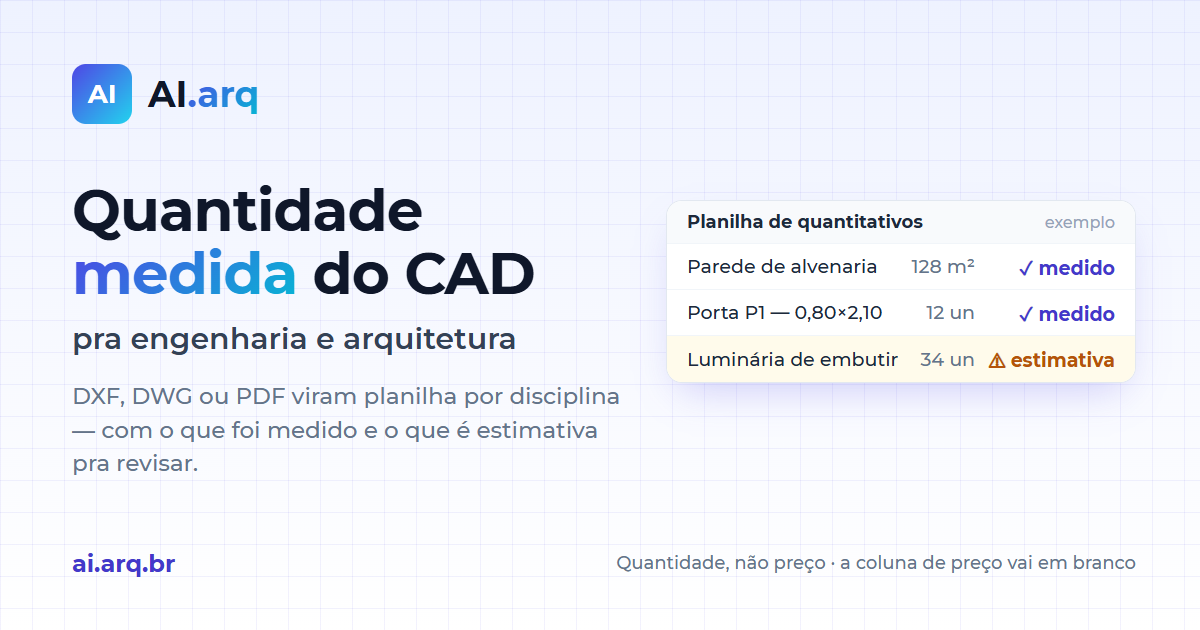
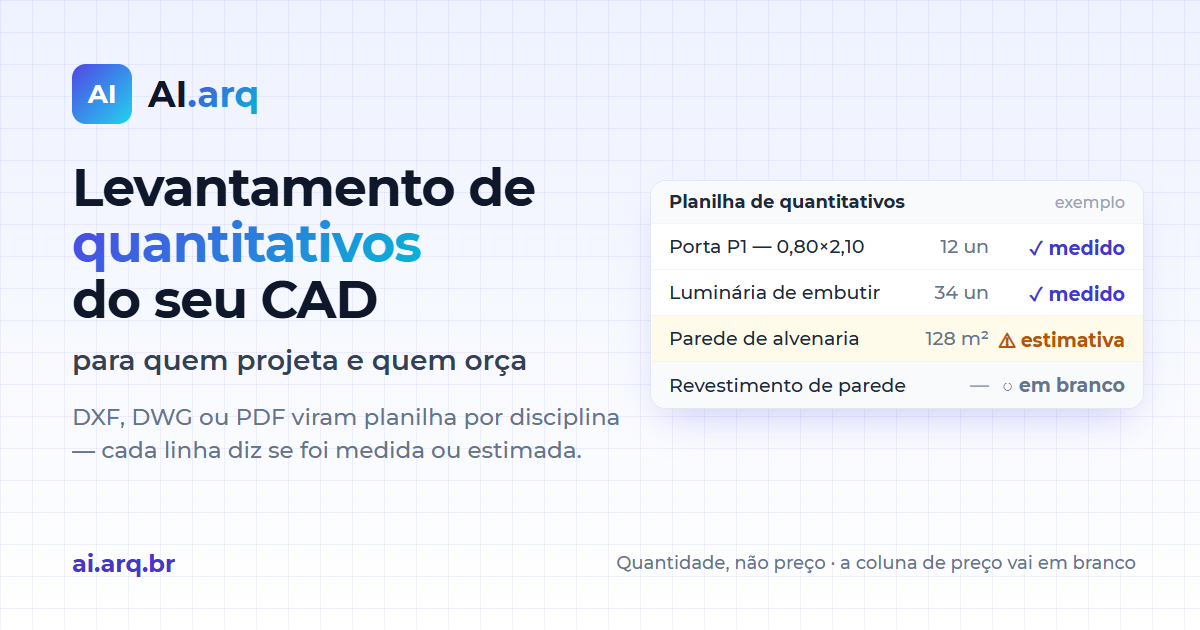
home: "levantamento de quantitativos" no título e imagem de compartilhamento nova
"Quantidade medida do CAD" soava estranho (uma cliente comentou ao ver a
página do LinkedIn) e prometia medição quando 25% das linhas em CAD saem
medidas. Pedro escolheu o slogan novo: "Levantamento de quantitativos do seu
CAD, para quem projeta e quem orça. Cada linha diz se foi medida ou estimada."

No site, os títulos seguem a regra de 14/09 (test_a_landing_fala_com_quem_chega:
title e og:title nomeiam engenharia e arquitetura; title até 70):
- title: "AI.arq — Levantamento de quantitativos para engenharia e arquitetura";
- og:title / twitter:title: "... do seu CAD, para engenharia, arquitetura e
  orçamento" (o orçamentista entra junto, sem virar lista).

og-image.png refeita no mesmo gerador da capa do LinkedIn: o cartão da
planilha segue a maquete da home (003f15a) — porta e luminária medidas,
parede como estimativa, revestimento em branco. A de antes selava "Parede de
alvenaria 128 m²" como medida.

Changed region(s): [[0.0617, 0.2714, 0.5242, 0.754], [0.555, 0.3016, 0.9558, 0.6333]]

diff --git a/index.html b/index.html
@@ -9,14 +9,14 @@
 <link rel="icon" type="image/x-icon" href="favicon-v2.ico">
 <link rel="apple-touch-icon" href="apple-touch-icon-v2.png">
 <meta name="viewport" content="width=device-width, initial-scale=1.0">
-<title>AI.arq — Quantidade medida do CAD, pra engenharia e arquitetura</title>
+<title>AI.arq — Levantamento de quantitativos para engenharia e arquitetura</title>
 <meta name="description" content="A IA lê seu DWG, DXF ou PDF e devolve a quantidade de cada item, medida ou marcada pra revisar. Pra engenharia e arquitetura. Grátis e ilimitado no beta.">
 <link rel="canonical" href="https://ai.arq.br/">
 
 <!-- Open Graph / WhatsApp / Facebook / LinkedIn -->
 <meta property="og:type" content="website">
 <meta property="og:url" content="https://ai.arq.br/">
-<meta property="og:title" content="AI.arq — Quantidade medida do CAD, pra engenharia e arquitetura">
+<meta property="og:title" content="AI.arq — Levantamento de quantitativos do seu CAD, para engenharia, arquitetura e orçamento">
 <meta property="og:description" content="A IA lê seu DXF, DWG ou PDF e devolve a QUANTIDADE de cada item — medida da geometria em DXF/DWG ou marcada como estimativa pra revisar —, por disciplina. Quantidade, não preço: a coluna de preço vai em branco pro orçamentista. Pra engenharia civil, arquitetura e orçamento de obra.">
 <meta property="og:image" content="https://ai.arq.br/og-image.png">
 <!-- Dimensoes declaradas: sem elas o buscador precisa baixar a imagem pra saber
@@ -27,13 +27,13 @@
 <meta property="og:image:width" content="1200">
 <meta property="og:image:height" content="630">
 <meta property="og:image:type" content="image/png">
-<meta property="og:image:alt" content="AI.arq — levantamento de quantitativos do CAD em minutos">
+<meta property="og:image:alt" content="AI.arq — levantamento de quantitativos do seu CAD, com cada linha marcada como medida, estimada ou em branco">
 <meta property="og:locale" content="pt_BR">
 <meta property="og:site_name" content="AI.arq">
 
 <!-- Twitter -->
 <meta name="twitter:card" content="summary_large_image">
-<meta name="twitter:title" content="AI.arq — Quantidade medida do CAD, pra engenharia e arquitetura">
+<meta name="twitter:title" content="AI.arq — Levantamento de quantitativos do seu CAD, para engenharia, arquitetura e orçamento">
 <meta name="twitter:description" content="A IA lê seu DXF, DWG ou PDF e devolve a quantidade de cada item — medida em DXF/DWG ou marcada como estimativa —, por disciplina. Pra engenharia, arquitetura e orçamento de obra. Grátis no beta, sem cartão.">
 <meta name="twitter:image" content="https://ai.arq.br/og-image.png">
 
